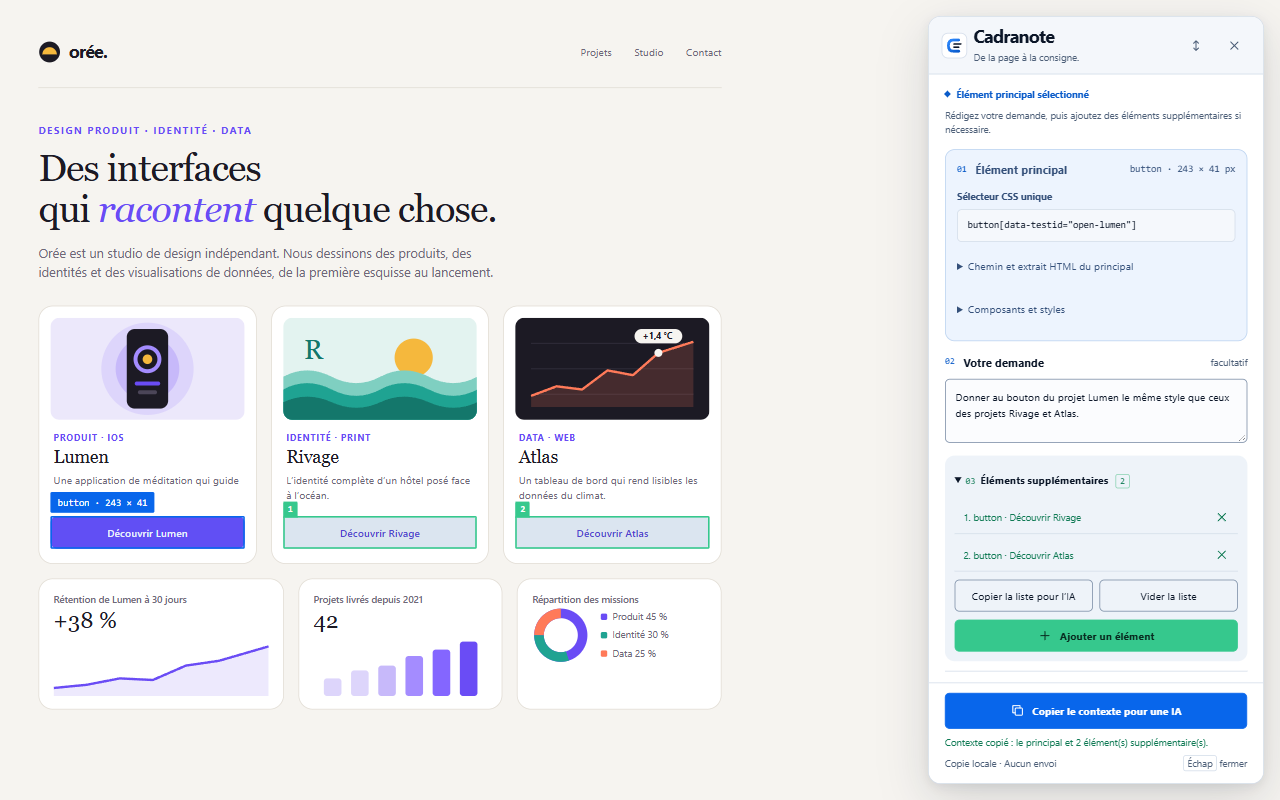
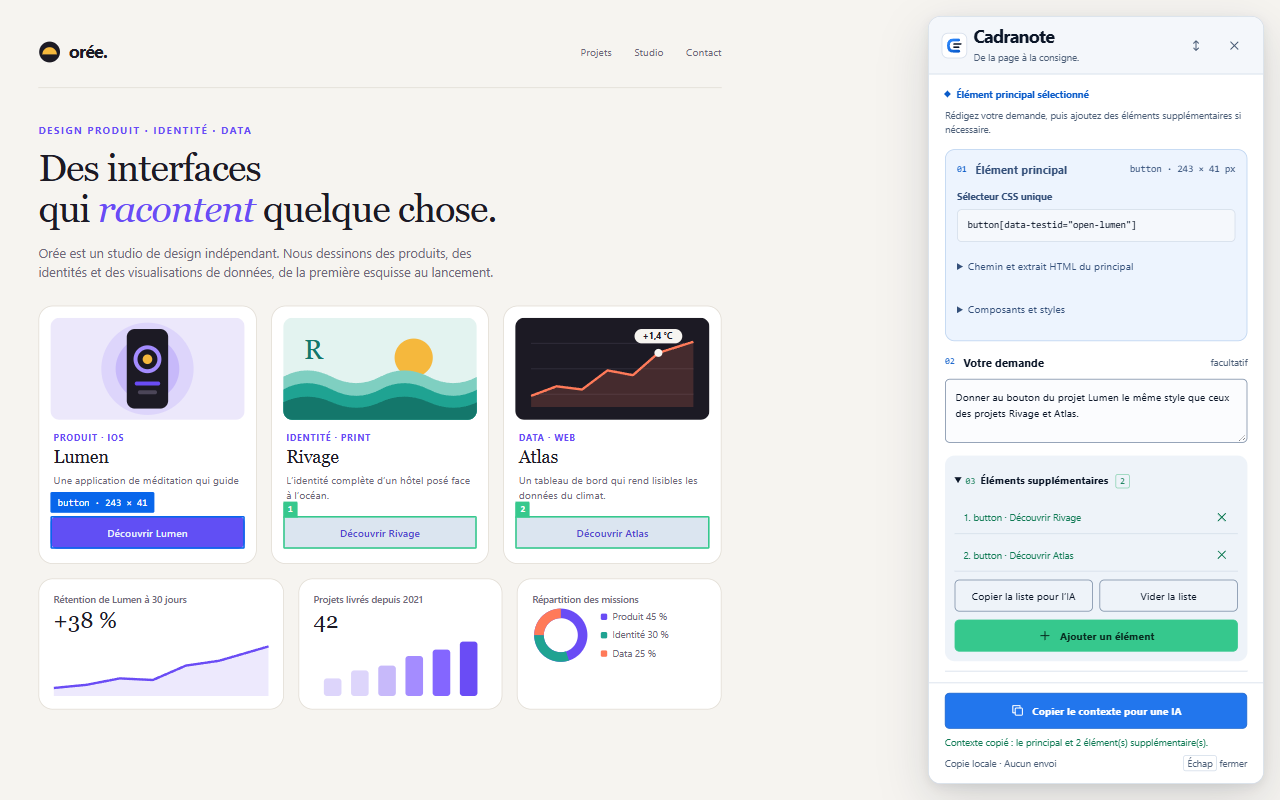
feat: nom plus explicite et images des stores en anglais (1.2.1)

Changed region(s): [[0.7188, 0.8438, 1.0, 0.9375]]

diff --git a/docs/STORE-LISTING.md b/docs/STORE-LISTING.md
@@ -6,7 +6,7 @@ Textes et images à saisir à la création des fiches. Les images sont dans [`st
 
 | Champ | Valeur |
 | --- | --- |
-| Nom | `Cadranote — Cibler pour une IA` (repris du manifeste) |
+| Nom | `Cadranote — Copier des éléments pour ChatGPT` (repris du manifeste ; 45 caractères au plus, limite d’Edge) |
 | Éditeur / développeur | `syl-craft` |
 | E-mail de contact | `syl.craft.apps@gmail.com` |
 | Site web | `https://github.com/syl-craft/cadranote` |
@@ -46,7 +46,7 @@ Code source : https://github.com/syl-craft/cadranote
 
 ### Fiche en anglais
 
-Nom repris du manifeste : `Cadranote — Target for AI`.
+Nom repris du manifeste : `Cadranote — Copy page elements for ChatGPT`.
 
 Résumé :
 
@@ -84,9 +84,9 @@ Termes de recherche Edge : `CSS selector`, `AI`, `ChatGPT`, `inspector`, `HTML`,
 | --- | --- | --- | --- | --- |
 | Icône 128 × 128 | `icons/icon128.png` | oui | — | dans le ZIP |
 | Logo 300 × 300 | `docs/store/logo-300.png` | — | oui | — |
-| Captures 1280 × 800 | `docs/store/screenshot-*.png` | oui | oui | oui |
-| Petite vignette 440 × 280 | `docs/store/promo-small.png` | oui | oui | — |
-| Grande vignette 1400 × 560 | `docs/store/promo-marquee.png` | facultatif | facultatif | — |
+| Captures 1280 × 800 | `docs/store/screenshot-*.png`, en anglais `screenshot-*-en.png` | oui | oui | oui |
+| Petite vignette 440 × 280 | `docs/store/promo-small.png`, en anglais `promo-small-en.png` | oui | oui | — |
+| Grande vignette 1400 × 560 | `docs/store/promo-marquee.png`, en anglais `promo-marquee-en.png` | facultatif | facultatif | — |
 
 ## Chrome Web Store
 

diff --git a/CHANGELOG.md b/CHANGELOG.md
@@ -1,5 +1,17 @@
 # Changelog
 
+## 1.2.1
+
+### English
+
+- **Clearer name.** Cadranote is now called “Cadranote — Copy page elements for ChatGPT”.
+- **English store images.** The store listings show the interface in English.
+
+### Français
+
+- **Nom plus explicite.** Cadranote s’appelle désormais « Cadranote — Copier des éléments pour ChatGPT ».
+- **Images des stores en anglais.** Les fiches en anglais montrent l’interface en anglais.
+
 ## 1.2.0
 
 ### English
